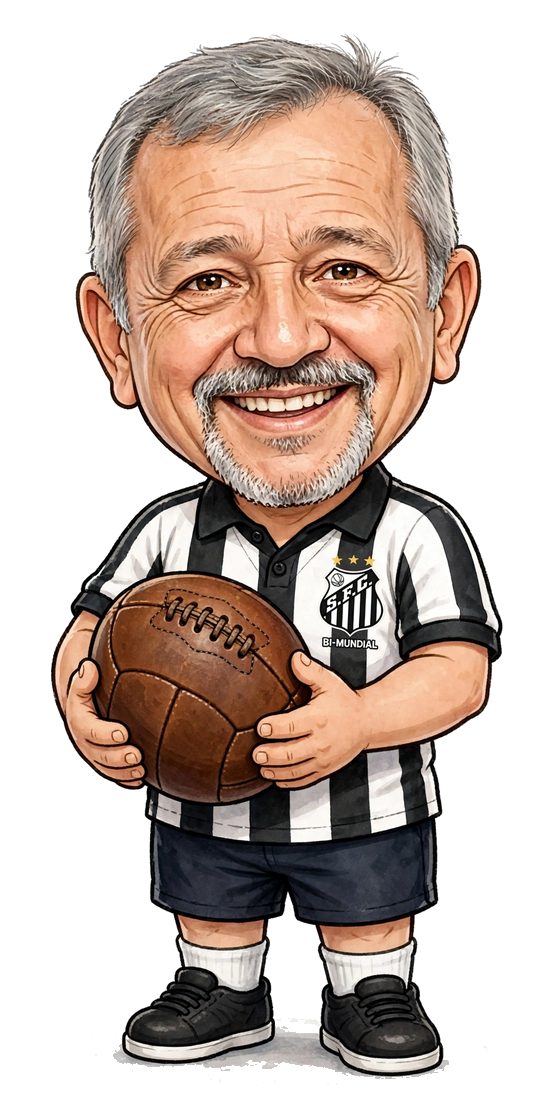
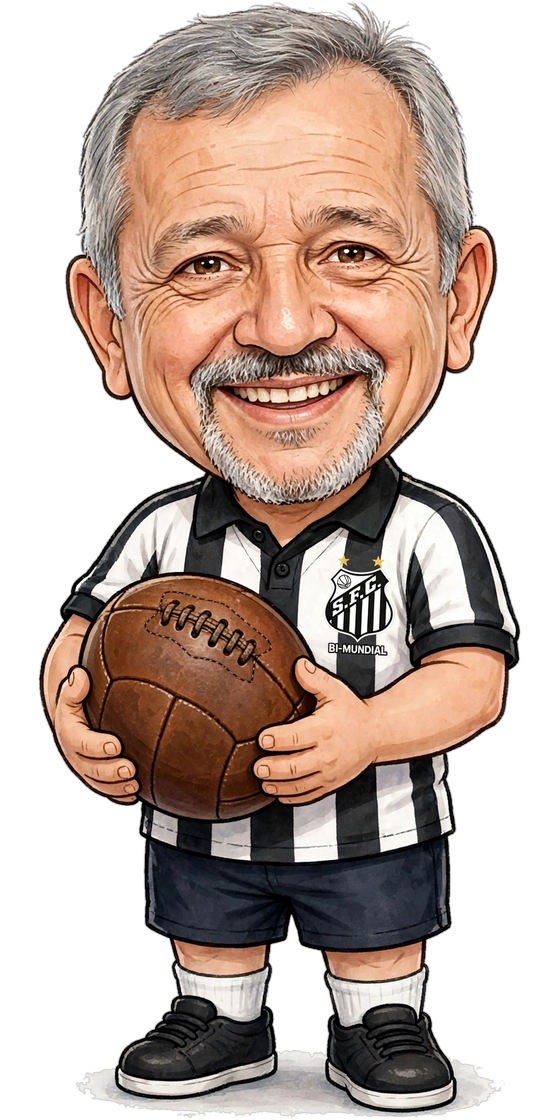
Camisa do Santos com 2 estrelas; seleção para os outros times
Claude-Session: https://claude.ai/code/session_01Rc31W1Yi8eu5zz9C8PHmDK

diff --git a/index.html b/index.html
@@ -300,7 +300,7 @@ nav button[aria-current="page"] { background: var(--gold); border-color: var(--g
       msg = next.d === 0 ? 'Hoje tem jogo do ' + team + '! Começa ' + at : 'O próximo jogo do ' + team + ' é ' + when + ', ' + at;
       msg += next.tv ? ' Onde ver: ' + next.tv.replace(' / ', ' ou ') + '.' : ' O canal ainda não foi informado.';
     }
-    return '<div class="mascot"><img src="nildao.png" alt="Nildão, o personagem do app" width="84"><div class="bubble"><b>Fala, torcedor!</b><span>' + msg + '</span></div></div>';
+    return '<div class="mascot"><img src="' + (team && team !== 'Santos' ? 'nildao-selecao.png' : 'nildao.png') + '" alt="Nildão, o personagem do app" width="84"><div class="bubble"><b>Fala, torcedor!</b><span>' + msg + '</span></div></div>';
   }
 
   function esc(x) {
